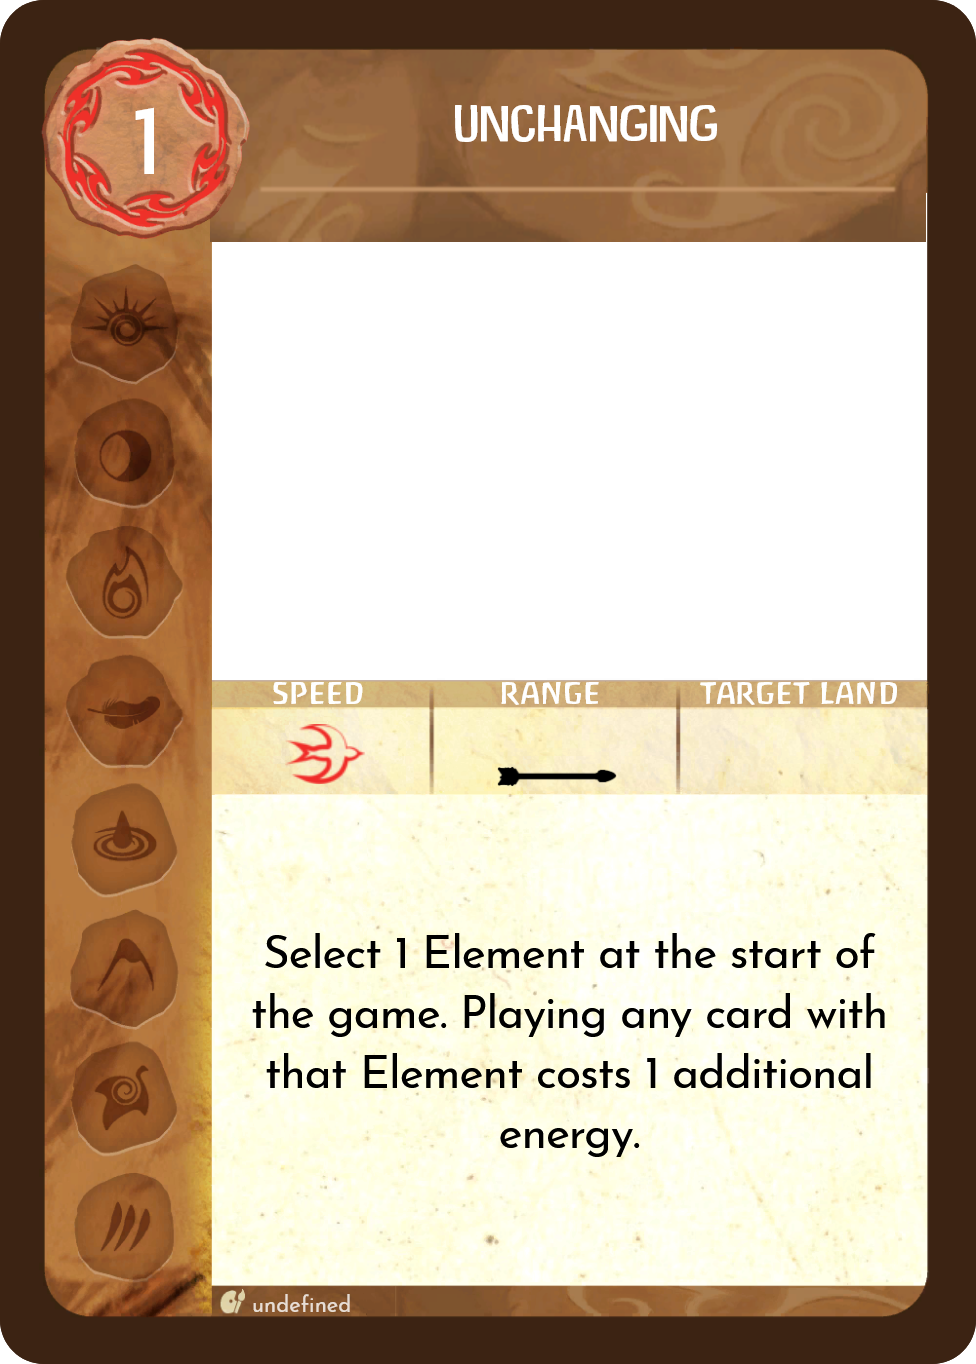
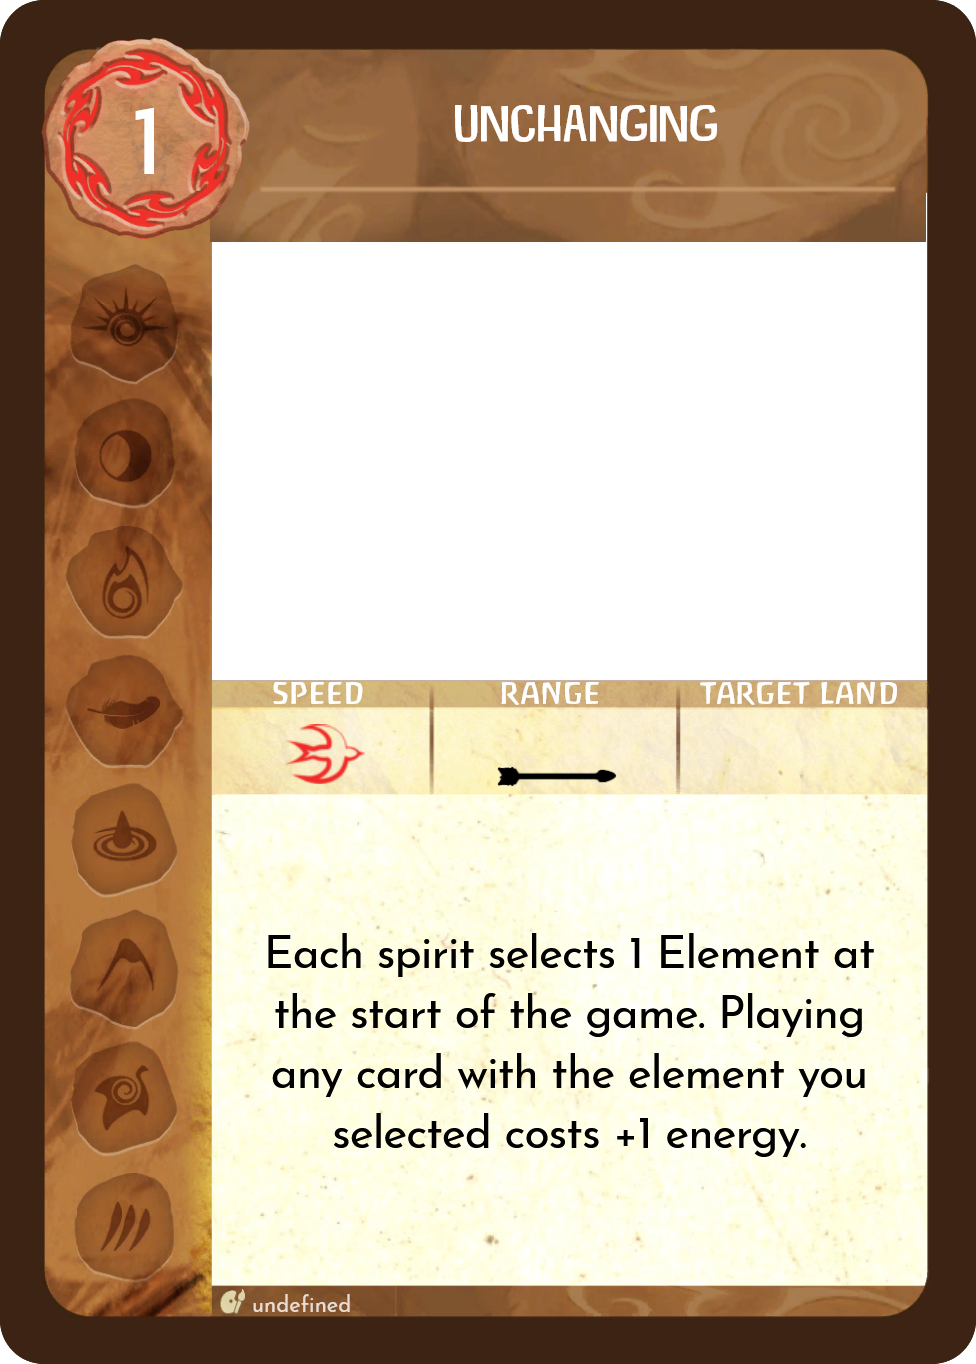
v1.2, added exhaust card

Changed region(s): [[0.2459, 0.6774, 0.9221, 0.8622], [0.6762, 0.8314, 0.8299, 0.8622]]

diff --git a/Mayhem_Mode_PowerCards.html b/Mayhem_Mode_PowerCards.html
@@ -1,14 +1,18 @@
[1 lines of base64/hex data omitted]
-</style><quick-card name="Yolo" speed="fast" cost="1" type="aspect" image="" range="" target="" target-title="TARGET LAND" artist-name="NOLAN NASSER" subtitle="" stack-view="false" lang="en" elements=""><rules>Forget your Unique Powers and draw an equivalent number of minor powers after the setup explore.</rules></quick-card><quick-card name="Falter" speed="fast" cost="1" type="aspect" image="" range="" target="" target-title="TARGET LAND" artist-name="undefined" subtitle="" stack-view="false" lang="en" elements=""><rules>All spirits suffer a -1 range penalty to all Powers.</rules></quick-card><quick-card name="Famine" speed="fast" cost="2" type="aspect" image="" range="" target="" target-title="TARGET LAND" artist-name="undefined" subtitle="" stack-view="false" lang="en" elements=""><rules><b> Bargain: </b> 1 energy per turn.
+</style><quick-card name="Yolo" speed="fast" cost="1" type="aspect" image="" range="" target="" target-title="TARGET LAND" artist-name="" subtitle="" stack-view="false" lang="en" elements=""><rules>After setup, forget your Unique Powers and take an equivalent number of power cards from the Minor Power Deck.</rules></quick-card><quick-card name="Falter" speed="fast" cost="1" type="aspect" image="" range="" target="" target-title="TARGET LAND" artist-name="undefined" subtitle="" stack-view="false" lang="en" elements=""><rules>All spirits suffer a -1 range penalty to all Powers.</rules></quick-card><quick-card name="Famine" speed="fast" cost="2" type="aspect" image="" range="" target="" target-title="TARGET LAND" artist-name="undefined" subtitle="" stack-view="false" lang="en" elements=""><rules><b> Bargain: </b> 1 energy per turn.
 <b> Ongoing: </b> Gain 1 {any} per turn.</rules></quick-card><quick-card name="Distort" speed="fast" cost="1" type="aspect" image="" range="" target="" target-title="TARGET LAND" artist-name="undefined" subtitle="" stack-view="false" lang="en" elements=""><rules>When your actions would destroy {city}, instead:
 2 {fear}, Replace that {city} with 1 {town} and 1 {explorer}.  Push both Invaders.
 When your actions would destroy {town}, instead:
-2 {fear}, Replace that {town} with 2 {explorer}.  Push both Invaders.</rules></quick-card><quick-card name="Fog" speed="fast" cost="1" type="aspect" image="" range="" target="" target-title="TARGET LAND" artist-name="undefined" subtitle="" stack-view="false" lang="en" elements=""><rules>When you gain power cards, draw 2 fewer cards (min. 2).</rules></quick-card><quick-card name="Ration" speed="fast" cost="3" type="aspect" image="" range="" target="" target-title="TARGET LAND" artist-name="undefined" subtitle="" stack-view="false" lang="en" elements=""><rules>You may only select a reclaim option once this game.</rules></quick-card><quick-card name="Tether" speed="fast" cost="1" type="aspect" image="" range="" target="" target-title="TARGET LAND" artist-name="undefined" subtitle="" stack-view="false" lang="en" elements=""><rules>Whenever you lose 1 of your {presence} by any means, remove an additional {presence} from the same spirit anywhere on the island.</rules></quick-card><quick-card name="Hollow" speed="fast" cost="3" type="aspect" image="" range="" target="" target-title="TARGET LAND" artist-name="undefined" subtitle="" stack-view="false" lang="en" elements=""><rules>Played cards no longer grant elements.</rules></quick-card><quick-card name="Grave" speed="fast" cost="1" type="aspect" image="" range="" target="" target-title="TARGET LAND" artist-name="undefined" subtitle="" stack-view="false" lang="en" elements=""><rules>Whenever a {presence} is destroyed, that spirit forgets a power card.</rules></quick-card><quick-card name="Sloth" speed="fast" cost="2" type="aspect" image="" range="" target="" target-title="TARGET LAND" artist-name="undefined" subtitle="" stack-view="false" lang="en" elements=""><rules>All cards played are slow and cannot be made fast.  Effects that clear during Time Passes last an additional turn (such as Defend).</rules></quick-card><quick-card name="Greed" speed="fast" cost="2" type="aspect" image="" range="" target="" target-title="TARGET LAND" artist-name="undefined" subtitle="" stack-view="false" lang="en" elements=""><rules>All sources of energy income are doubled for the first 3 turns.  Starting turn 4, all sources of energy are halved (round down) for the remainder of the game.</rules></quick-card><quick-card name="Shrouded" speed="fast" cost="1" type="aspect" image="" range="" target="" target-title="TARGET LAND" artist-name="undefined" subtitle="" stack-view="false" lang="en" elements=""><rules><b> Bargain: </b> 1 energy per turn.
-<b> Ongoing: </b> Once per turn, when you gain a power card without {fire}, gain 1 Energy.</rules></quick-card><quick-card name="Flinch" speed="fast" cost="1" type="aspect" image="" range="" target="" target-title="TARGET LAND" artist-name="undefined" subtitle="" stack-view="false" lang="en" elements=""><rules>If you ever do Damage or generate {fear} in a land, push your {presence} out of it.</rules></quick-card><quick-card name="Ruin" speed="fast" cost="2" type="aspect" image="" range="" target="" target-title="TARGET LAND" artist-name="undefined" subtitle="" stack-view="false" lang="en" elements=""><rules>Dealing damage in a Land causes {blight}.  Blight from any source an no longer cascade.</rules></quick-card><quick-card name="Amnesia" speed="fast" cost="3" type="aspect" image="" range="" target="" target-title="TARGET LAND" artist-name="undefined" subtitle="" stack-view="false" lang="en" elements=""><rules>Shuffle your Unique Powers into the Minor Power deck at the start of the game.  If one of your Unique Powers is drawn by any means, put it in your hand, take a Minor Power to your hand, and replace that Unique Power with the next Minor Power card.</rules></quick-card><quick-card name="Penance" speed="fast" cost="1" type="aspect" image="" range="" target="" target-title="TARGET LAND" artist-name="undefined" subtitle="" stack-view="false" lang="en" elements=""><rules>Whenever a {dahan} is destroyed, destroy 1 {presence}.</rules></quick-card><quick-card name="Fuse" speed="fast" cost="1" type="aspect" image="" range="" target="" target-title="TARGET LAND" artist-name="undefined" subtitle="" stack-view="false" lang="en" elements=""><rules>Shuffle the unused Invader Cards (max 3) into the Minor Power deck.  when an Invader Card would be drawn from the deck by any means, immediately place it in the build space (face-up), and then draw an additional card.</rules></quick-card><quick-card name="Crisis" speed="fast" cost="2" type="aspect" image="" range="" target="" target-title="TARGET LAND" artist-name="undefined" subtitle="" stack-view="false" lang="en" elements=""><rules>During setup, remove the Coastal card from the invader deck pool.  When you draw the first Stage II card of the game, add the Coastal card on top of it.</rules></quick-card><quick-card name="Etherial" speed="fast" cost="1" type="aspect" image="" range="" target="" target-title="TARGET LAND" artist-name="undefined" subtitle="" stack-view="true" lang="en" elements=""><rules>After putting any non unique power card into your discard, forget it and take the top card of that deck.</rules></quick-card><quick-card name="Edgecased" speed="fast" cost="2" type="aspect" image="" range="" target="" target-title="TARGET LAND" artist-name="undefined" subtitle="" stack-view="true" lang="en" elements=""><rules>Invaders do +1 damage (per land) when ravaging</rules></quick-card><quick-card name="Enticing" speed="fast" cost="1" type="aspect" image="" range="" target="" target-title="TARGET LAND" artist-name="undefined" subtitle="" stack-view="true" lang="en" elements=""><rules>Whenever you target a Land with a Power, Gather 1 {presence} from any spirit.</rules></quick-card><quick-card name="Barren" speed="fast" cost="2" type="aspect" image="" range="" target="" target-title="TARGET LAND" artist-name="undefined" subtitle="" stack-view="true" lang="en" elements=""><rules>On setup, remove 2 {dahan} from a land with 2 {dahan}</rules></quick-card><quick-card name="The Teeming Host Departs" speed="fast" cost="" type="aspect" image="" range="" target="" target-title="TARGET LAND" artist-name="undefined" subtitle="" stack-view="true" lang="en" elements=""><rules>After setup, remove 1 {beasts}, 1 {disease}, 1 {wilds}, 1 {badlands} from each board.</rules></quick-card><quick-card name="Hardcore" speed="fast" cost="1" type="aspect" image="" range="" target="" target-title="TARGET LAND" artist-name="undefined" subtitle="" stack-view="true" lang="en" elements=""><rules>Any {destroyed-presence} is immediately removed from the game.</rules></quick-card><quick-card name="Unchanging" speed="fast" cost="1" type="aspect" image="" range="" target="" target-title="TARGET LAND" artist-name="undefined" subtitle="" stack-view="true" lang="en" elements=""><rules>Select 1 Element at the start of the game.  Playing any card with that Element costs 1 additional energy.</rules></quick-card><quick-card name="Recall" speed="fast" cost="1" type="aspect" image="" range="" target="" target-title="TARGET LAND" artist-name="undefined" subtitle="" stack-view="true" lang="en" elements=""><rules>When you forget a non Unique Power Card, place that card on top of its respective deck.</rules></quick-card><quick-card name="Sacriledge" speed="fast" cost="1" type="aspect" image="" range="" target="" target-title="TARGET LAND" artist-name="undefined" subtitle="" stack-view="true" lang="en" elements=""><rules>Place the Event <b> Numinous Crisis </b> on top of the Event Deck.  During the first Event Phase, you may not skip this Event.</rules></quick-card><quick-card name="Chaos" speed="fast" cost="2" type="aspect" image="" range="" target="" target-title="TARGET LAND" artist-name="undefined" subtitle="undefined" stack-view="false" lang="en" elements=""><rules>Shuffle the Minor and Major deck into one deck.  Whenever you would draft a Power Card, you draw from the one deck.
+2 {fear}, Replace that {town} with 2 {explorer}.  Push both Invaders.</rules></quick-card><quick-card name="Fog" speed="fast" cost="1" type="aspect" image="" range="" target="" target-title="TARGET LAND" artist-name="undefined" subtitle="" stack-view="false" lang="en" elements=""><rules>When you gain power cards, draw 2 fewer cards (min. 2).</rules></quick-card><quick-card name="Ration" speed="fast" cost="3" type="aspect" image="" range="" target="" target-title="TARGET LAND" artist-name="undefined" subtitle="" stack-view="false" lang="en" elements=""><rules>You may only select a reclaim growth option once this game.
 
-<i> Drafting a Major Power still invokes Forget rules. </i></rules></quick-card><quick-card name="Panic" speed="fast" cost="1" type="aspect" image="" range="" target="" target-title="TARGET LAND" artist-name="undefined" subtitle="" stack-view="true" lang="en" elements=""><rules>Lands with {presence} only take 1 damage to cause blight.</rules></quick-card><quick-card name="Resolute" speed="fast" cost="1" type="aspect" image="" range="" target="" target-title="TARGET LAND" artist-name="undefined" subtitle="" stack-view="true" lang="en" elements=""><rules>During Setup, add 1 unused Fear Card to each Terror Level.</rules></quick-card><quick-card name="Unhealthy" speed="fast" cost="2" type="aspect" image="" range="" target="" target-title="target land" artist-name="undefined" subtitle="undefined" stack-view="true" lang="en" elements=""><rules>Setup: Remove the blight card from the game, add 3 blight per player + 1 from the box to the area where the blight card normally is. If this pool of blight runs out, you lose the game.</rules></quick-card><quick-card name="Restful" speed="fast" cost="2" type="aspect" image="" range="" target="" target-title="target land" artist-name="undefined" subtitle="undefined" stack-view="true" lang="en" elements=""><rules>Every turn during growth, select 1 spirit. That spirit cannot play cards this turn.</rules></quick-card><quick-card name="Royal" speed="fast" cost="2" type="aspect" image="" range="" target="" target-title="target land" artist-name="undefined" subtitle="undefined" stack-view="true" lang="en" elements=""><rules>During Setup, after adding all other Invaders, Accelerate the Invader Deck. On each board, add 1 Town to the land of that terrain with the fewest Invaders.</rules></quick-card><quick-card name="Dream" speed="fast" cost="2" type="undefined" image="" range="" target="" target-title="target land" artist-name="undefined" subtitle="undefined" stack-view="true" lang="en" elements=""><rules>During Setup, add an extra board adjacent to an existing board. Follow any extra board rules.</rules></quick-card><quick-card name="Bland" speed="fast" cost="1" type="undefined" image="" range="" target="" target-title="target land" artist-name="undefined" subtitle="undefined" stack-view="true" lang="en" elements=""><rules>On setup, remove the following major powers from the major power deck:
-Solidify Echoes of Majesty Past
-Powerstorm
-Instruments of their Own Ruin
-Cast Down into the Briny Deep
-Exaltation of the Incandescent Sky</rules></quick-card><quick-card name="Autonomous" speed="fast" cost="2" type="undefined" image="" range="" target="" target-title="target land" artist-name="undefined" subtitle="undefined" stack-view="true" lang="en" elements=""><rules>{town}/{city} have +1 Health.</rules></quick-card><spirit-name>Mayhem Mode</spirit-name>
+Spirits with multiple reclaim option may only select each reclaim option once.</rules></quick-card><quick-card name="Tether" speed="fast" cost="1" type="aspect" image="" range="" target="" target-title="TARGET LAND" artist-name="undefined" subtitle="" stack-view="false" lang="en" elements=""><rules>Whenever you lose 1 of your {presence} by any means, remove an additional {presence} from the same spirit anywhere on the island.</rules></quick-card><quick-card name="Hollow" speed="fast" cost="3" type="aspect" image="" range="" target="" target-title="TARGET LAND" artist-name="undefined" subtitle="" stack-view="false" lang="en" elements=""><rules>Played cards no longer grant elements.</rules></quick-card><quick-card name="Grave" speed="fast" cost="1" type="aspect" image="" range="" target="" target-title="TARGET LAND" artist-name="undefined" subtitle="" stack-view="false" lang="en" elements=""><rules>Whenever a {presence} is destroyed, that spirit forgets a power card.</rules></quick-card><quick-card name="Sloth" speed="fast" cost="2" type="aspect" image="" range="" target="" target-title="TARGET LAND" artist-name="undefined" subtitle="" stack-view="false" lang="en" elements=""><rules>All cards played are slow and cannot be made fast.  Effects that clear during Time Passes last an additional turn (such as Defend).</rules></quick-card><quick-card name="Greed" speed="fast" cost="2" type="aspect" image="" range="" target="" target-title="TARGET LAND" artist-name="undefined" subtitle="" stack-view="false" lang="en" elements=""><rules>All sources of energy income are doubled for the first 3 turns.  Starting turn 4, all sources of energy are halved (round down) for the remainder of the game.</rules></quick-card><quick-card name="Shrouded" speed="fast" cost="1" type="aspect" image="" range="" target="" target-title="TARGET LAND" artist-name="undefined" subtitle="" stack-view="false" lang="en" elements=""><rules><b> Bargain: </b> 1 energy per turn.
+<b> Ongoing: </b> Once per turn, when you gain a power card without {fire}, gain 1 Energy.</rules></quick-card><quick-card name="Flinch" speed="fast" cost="1" type="aspect" image="" range="" target="" target-title="TARGET LAND" artist-name="undefined" subtitle="" stack-view="false" lang="en" elements=""><rules>If you ever do Damage or generate {fear} in a land, push your {presence} out of it.</rules></quick-card><quick-card name="Ruin" speed="fast" cost="2" type="aspect" image="" range="" target="" target-title="TARGET LAND" artist-name="undefined" subtitle="" stack-view="false" lang="en" elements=""><rules>When dealing damage with a power in a Land without {blight}, add a {blight}.  Blight from any source can no longer cascade.</rules></quick-card><quick-card name="Amnesia" speed="fast" cost="3" type="aspect" image="" range="" target="" target-title="TARGET LAND" artist-name="undefined" subtitle="" stack-view="false" lang="en" elements=""><rules>After Setup: Shuffle your Unique Powers into the Minor Power deck .
+
+When any spirit gains a power card and sees a unique power, put that unique power card in it's original owner's hand, and draw another card for your minor power draft.</rules></quick-card><quick-card name="Penance" speed="fast" cost="1" type="aspect" image="" range="" target="" target-title="TARGET LAND" artist-name="undefined" subtitle="" stack-view="false" lang="en" elements=""><rules>Whenever a {dahan} is destroyed, destroy 1 {presence}.</rules></quick-card><quick-card name="Fuse" speed="fast" cost="1" type="aspect" image="" range="" target="" target-title="TARGET LAND" artist-name="undefined" subtitle="" stack-view="false" lang="en" elements=""><rules>Shuffle the unused Invader Cards (max 3) into the Minor Power deck.  when an Invader Card would be drawn from the deck by any means, immediately place it in the build space (face-up), and then draw an additional card.</rules></quick-card><quick-card name="Crisis" speed="fast" cost="2" type="aspect" image="" range="" target="" target-title="TARGET LAND" artist-name="undefined" subtitle="" stack-view="false" lang="en" elements=""><rules>During setup, remove the Coastal card from the invader deck pool.  When you draw the first Stage II card of the game, add the Coastal card on top of it.</rules></quick-card><quick-card name="Etherial" speed="fast" cost="0" type="aspect" image="" range="" target="" target-title="TARGET LAND" artist-name="undefined" subtitle="" stack-view="false" lang="en" elements=""><rules>After putting any non unique power card into your discard, forget it and take the top card of that deck, and put it into your discard.</rules></quick-card><quick-card name="Edgecased" speed="fast" cost="2" type="aspect" image="" range="" target="" target-title="TARGET LAND" artist-name="undefined" subtitle="" stack-view="false" lang="en" elements=""><rules>Invaders do +1 damage (per land) when ravaging</rules></quick-card><quick-card name="Enticing" speed="fast" cost="1" type="aspect" image="" range="" target="" target-title="TARGET LAND" artist-name="undefined" subtitle="" stack-view="false" lang="en" elements=""><rules>Whenever you target a Land with a Power, Gather 3 {presence} from your spirit.</rules></quick-card><quick-card name="Barren" speed="fast" cost="2" type="aspect" image="" range="" target="" target-title="TARGET LAND" artist-name="undefined" subtitle="" stack-view="false" lang="en" elements=""><rules>On setup, remove 2 {dahan} from a land with 2 {dahan}</rules></quick-card><quick-card name="The Teeming Host Departs" speed="fast" cost="" type="aspect" image="" range="" target="" target-title="TARGET LAND" artist-name="undefined" subtitle="" stack-view="false" lang="en" elements=""><rules>After setup, remove 1 {beasts}, 1 {disease}, 1 {wilds}, 1 {badlands} from each board.</rules></quick-card><quick-card name="Hardcore" speed="fast" cost="1" type="aspect" image="" range="" target="" target-title="TARGET LAND" artist-name="undefined" subtitle="" stack-view="false" lang="en" elements=""><rules>Any {destroyed-presence} is immediately removed from the game.</rules></quick-card><quick-card name="Unchanging" speed="fast" cost="1" type="aspect" image="" range="" target="" target-title="TARGET LAND" artist-name="undefined" subtitle="" stack-view="false" lang="en" elements=""><rules>Each spirit selects 1 Element at the start of the game.  Playing any card with the element you selected costs +1 energy.</rules></quick-card><quick-card name="Recall" speed="fast" cost="1" type="aspect" image="" range="" target="" target-title="TARGET LAND" artist-name="undefined" subtitle="" stack-view="false" lang="en" elements=""><rules>When a spirit gains a power card, place the unselected power cards on the top of the respective deck.</rules></quick-card><quick-card name="Sacriledge" speed="fast" cost="0" type="aspect" image="" range="" target="" target-title="TARGET LAND" artist-name="undefined" subtitle="" stack-view="false" lang="en" elements=""><rules>Place the Event <b> Numinous Crisis </b> on top of the Event Deck.  During the first Event Phase, you may not skip this Event.</rules></quick-card><quick-card name="Chaos" speed="fast" cost="1" type="aspect" image="" range="" target="" target-title="TARGET LAND" artist-name="undefined" subtitle="undefined" stack-view="false" lang="en" elements=""><rules>Shuffle the Minor and Major deck into one deck.  Whenever you would draft a Power Card, you draw from the one deck.
+
+<i> Drafting a Major Power still invokes Forget rules. </i></rules></quick-card><quick-card name="Panic" speed="fast" cost="1" type="aspect" image="" range="" target="" target-title="TARGET LAND" artist-name="undefined" subtitle="" stack-view="false" lang="en" elements=""><rules>Lands with {presence} only take 1 damage to cause blight.</rules></quick-card><quick-card name="Resolute" speed="fast" cost="1" type="aspect" image="" range="" target="" target-title="TARGET LAND" artist-name="undefined" subtitle="" stack-view="false" lang="en" elements=""><rules>During Setup, add 1 unused Fear Card to each Terror Level.</rules></quick-card><quick-card name="Unhealthy" speed="fast" cost="2" type="aspect" image="" range="" target="" target-title="TARGET LAND" artist-name="undefined" subtitle="undefined" stack-view="false" lang="en" elements=""><rules>Setup: Remove the blight card from the game, add 3 blight per player + 1 from the box to the area where the blight card normally is. If this pool of blight runs out, you lose the game.</rules></quick-card><quick-card name="Restful" speed="fast" cost="2" type="aspect" image="" range="" target="" target-title="TARGET LAND" artist-name="undefined" subtitle="" stack-view="false" lang="en" elements=""><rules>Every turn during growth, select 1 spirit. That spirit cannot play cards this turn.</rules></quick-card><quick-card name="Royal" speed="fast" cost="2" type="aspect" image="" range="" target="" target-title="TARGET LAND" artist-name="undefined" subtitle="" stack-view="false" lang="en" elements=""><rules>During Setup, after adding all other Invaders, Accelerate the Invader Deck. On each board, add 1 Town to the land of that terrain with the fewest Invaders.</rules></quick-card><quick-card name="Dream" speed="fast" cost="2" type="undefined" image="" range="" target="" target-title="TARGET LAND" artist-name="undefined" subtitle="undefined" stack-view="false" lang="en" elements=""><rules>During Setup, add an extra board adjacent to an existing board. Follow any extra board rules.</rules></quick-card><quick-card name="Bland" speed="fast" cost="1" type="undefined" image="" range="" target="" target-title="TARGET LAND" artist-name="undefined" subtitle="undefined" stack-view="false" lang="en" elements=""><rules>On setup, remove the following major powers from the major power deck:
+<b>S</b>olidify Echoes of Majesty Past
+<b>P</b>owerstorm
+<b>I</b>nstruments of their Own Ruin
+<b>C</b>ast Down into the Briny Deep
+<b>E</b>xaltation of the Incandescent Sky</rules></quick-card><quick-card name="Autonomous" speed="fast" cost="2" type="undefined" image="" range="" target="" target-title="TARGET LAND" artist-name="undefined" subtitle="undefined" stack-view="false" lang="en" elements=""><rules>{town}/{city} have +1 Health.</rules></quick-card><quick-card name="Exhaust" speed="fast" cost="2" type="aspect" image="" range="" target="" target-title="target land" artist-name="undefined" subtitle="" stack-view="false" lang="en" elements=""><rules>At the end of every slow phase, Forget one Power Card that you have in play.</rules></quick-card><spirit-name>Mayhem Mode</spirit-name>
